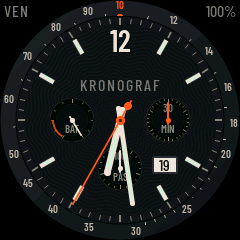
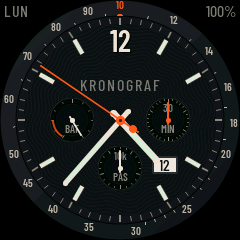
NTP fixed (single status read), no rendering with the screen off, robust serial captures, sleep/wake event log
Claude-Session: https://claude.ai/code/session_01BHBYox5ENEx9Hdd9LiBx8a

diff --git a/tools/kg.py b/tools/kg.py
@@ -26,16 +26,29 @@ def find_port():
 
 
 def open_port(path):
-    # dsrdtr/rtscts désactivés et lignes basses : ouvrir le port ne doit pas redémarrer l'ESP32.
+    # Sur macOS, ouvrir le port fait souvent redémarrer l'ESP32 (circuit d'auto-reset du CP210x).
+    # On écoute 1,5 s : si un démarrage est en cours, on attend « Kronograf prêt ».
     s = serial.Serial()
     s.port = path
     s.baudrate = 115200
-    s.timeout = 2
+    s.timeout = 0.3
     s.dtr = False
     s.rts = False
     s.open()
-    time.sleep(0.2)
+    end = time.time() + 1.5
+    booting = False
+    while time.time() < end:
+        line = s.readline().decode(errors="replace")
+        if "ets " in line or "Kronograf — démarrage" in line:
+            booting = True
+            end = time.time() + 15
+        if "Kronograf prêt" in line:
+            time.sleep(0.5)  # laisse passer les derniers logs de démarrage
+            break
+    if booting:
+        time.sleep(4)  # synchro NTP en cours au démarrage : ses logs Wi-Fi arrivent vers 4 s
     s.reset_input_buffer()
+    s.timeout = 2
     return s
 
 
@@ -73,19 +86,30 @@ def screenshot(s, path):
     if parts[1] == "ERR":
         sys.exit(f"Erreur montre : {line}")
     w, h, swap = int(parts[1]), int(parts[2]), parts[4] == "swap=1"
-    rows = []
+    rows = {}
     s.timeout = 5
     while True:
-        row = s.readline().decode(errors="replace").strip()
-        if row == "KGSHOT END":
+        line = s.readline().decode(errors="replace").strip()
+        if line == "KGSHOT END":
             break
-        if not row:
+        if not line:
             sys.exit(f"Capture interrompue après {len(rows)} rangées")
-        rows.append(base64.b64decode(row))
-    if len(rows) != h or any(len(r) != w * 2 for r in rows):
-        sys.exit(f"Capture incomplète : {len(rows)}/{h} rangées")
-    write_png(path, w, h, rgb565_to_rgb888(b"".join(rows), swap))
+        if not line.startswith("R") or ":" not in line:
+            continue  # ligne de log intercalée
+        idx, _, b64 = line[1:].partition(":")
+        try:
+            data = base64.b64decode(b64, validate=True)
+        except ValueError:
+            continue
+        if idx.isdigit() and len(data) == w * 2:
+            rows[int(idx)] = data
+    missing = [y for y in range(h) if y not in rows]
+    if missing:
+        print(f"capture incomplète : {len(missing)} rangées manquantes (première : {missing[0]})", file=sys.stderr)
+        return False
+    write_png(path, w, h, rgb565_to_rgb888(b"".join(rows[y] for y in range(h)), swap))
     print(f"capture {path} ({w}×{h})")
+    return True
 
 
 def command(s, cmd, wait=1.0):
@@ -106,7 +130,9 @@ def main():
     a = ap.parse_args()
     s = open_port(a.port or find_port())
     if a.cmd == "screenshot":
-        screenshot(s, a.args[0] if a.args else "screenshot.png")
+        # Un log d'une autre tâche peut s'intercaler au milieu d'une rangée : on recommence.
+        if not any(screenshot(s, a.args[0] if a.args else "screenshot.png") for _ in range(3)):
+            sys.exit("Capture impossible après 3 essais")
     else:
         command(s, " ".join([a.cmd] + a.args))
 

diff --git a/src/hal/device/console.cpp b/src/hal/device/console.cpp
@@ -6,7 +6,7 @@
  *   bl <n>      rétroéclairage 8..255
  *   timeout <s> délai d'extinction
  *   diag        affiche l'écran de diagnostic de la Tranche 0
- *   touch       affiche les points touchés pendant 10 s (calibration)
+ *   touch [s]   affiche les points touchés pendant s secondes (10 par défaut)
  *   lcdtest     mire rouge | vert | bleu 5 s, hors LVGL
  *   log <n>     niveau de log ESP (0 = rien … 5 = verbeux)
  *   help
@@ -46,7 +46,10 @@ static void cmd_status(void)
                   (unsigned long)frame_px, (unsigned long)getCpuFrequencyMhz());
     Serial.printf("current batt_discharge=%.1fmA vbus=%.1fmA\n", pmu_discharge_ma(), pmu_vbus_ma());
     Serial.printf("battery=%d%% %dmV charging=%d usb=%d\n", b.percent, b.millivolts, b.charging, b.usb);
-    Serial.printf("screen=%s wake=%s steps=%lu\n", power_screen_on() ? "on" : "off", power_wake_reason(),
+    uint32_t wakes, sleeps;
+    power_counters(&wakes, &sleeps);
+    Serial.printf("screen=%s wake=%s wakes=%lu light_sleeps=%lu steps=%lu\n", power_screen_on() ? "on" : "off",
+                  power_wake_reason(), (unsigned long)wakes, (unsigned long)sleeps,
                   (unsigned long)hal_steps_today());
     struct tm t;
     hal_now(&t, nullptr);
@@ -54,7 +57,7 @@ static void cmd_status(void)
                   t.tm_mday, t.tm_hour, t.tm_min, t.tm_sec, hal_time_valid(), net_status());
 }
 
-/* Format : "KGSHOT <w> <h> rgb565 swap=<0|1>", 1 ligne base64 par rangée, "KGSHOT END". */
+/* Format : "KGSHOT <w> <h> rgb565 swap=<0|1>", puis "R<y>:<base64>" par rangée, "KGSHOT END". */
 static void cmd_screenshot(void)
 {
     lv_obj_t *scr = lv_scr_act();
@@ -76,6 +79,7 @@ static void cmd_screenshot(void)
     for (int y = 0; y < h; y++) {
         size_t olen = 0;
         mbedtls_base64_encode(line, sizeof line, &olen, buf + y * w * 2, w * 2);
+        Serial.printf("R%d:", y); /* index de rangée : les lignes de log intercalées sont ignorées */
         Serial.write(line, olen);
         Serial.write('\n');
     }
@@ -91,8 +95,9 @@ static void run(char *cmd)
     else if (!strcmp(cmd, "wake")) power_force(true);
     else if (!strncmp(cmd, "bl ", 3)) power_set_brightness((uint8_t)atoi(cmd + 3));
     else if (!strncmp(cmd, "timeout ", 8)) power_set_timeout(1000u * atoi(cmd + 8));
-    else if (!strcmp(cmd, "touch")) {
-        uint32_t end = millis() + 10000;
+    else if (!strncmp(cmd, "touch", 5)) {
+        uint32_t secs = cmd[5] == ' ' ? atoi(cmd + 6) : 10;
+        uint32_t end = millis() + 1000 * secs;
         int16_t x, y;
         while (millis() < end) {
             lv_timer_handler(); /* fait tourner la lecture tactile */

diff --git a/src/hal/device/power.cpp b/src/hal/device/power.cpp
@@ -28,6 +28,7 @@ static uint32_t s_timeout_ms = 10000;
 static uint8_t s_brightness = 160;
 static uint32_t s_wake_ms;
 static const char *s_wake_reason = "démarrage";
+static uint32_t s_light_sleeps, s_wakes;
 
 static void IRAM_ATTR on_bma_irq() { s_bma_irq = true; }
 static void IRAM_ATTR on_axp_irq() { s_axp_irq = true; }
@@ -89,6 +90,7 @@ static void screen_off(void)
 {
     if (!s_screen_on) return;
     s_screen_on = false;
+    Serial.println("event sleep");
     for (int b = s_brightness; b > 0; b -= 16) { /* extinction douce, ~80 ms */
         hal_backlight(b);
         delay(8);
@@ -104,6 +106,8 @@ static void screen_on(const char *reason)
     lv_disp_trig_activity(nullptr);
     if (s_screen_on) return;
     s_screen_on = true;
+    s_wakes++;
+    Serial.printf("event wake %s\n", reason);
     setCpuFrequencyMhz(240);
     display_sleep(false);
     steps_midnight_check();
@@ -128,6 +132,7 @@ static const char *light_sleep(void)
     esp_sleep_enable_gpio_wakeup();
     esp_sleep_enable_timer_wakeup(60ULL * 1000 * 1000); /* minuit, VBUS : vérifié chaque minute */
     Serial.flush();
+    s_light_sleeps++;
     esp_light_sleep_start();
     gpio_wakeup_disable((gpio_num_t)PIN_AXP_INT);
     gpio_wakeup_disable((gpio_num_t)PIN_BMA_INT);
@@ -203,4 +208,10 @@ void power_force(bool on)
 {
     if (on) screen_on("console");
     else screen_off();
+}
+
+void power_counters(uint32_t *wakes, uint32_t *light_sleeps)
+{
+    *wakes = s_wakes;
+    *light_sleeps = s_light_sleeps;
 }

diff --git a/src/hal/device/net.cpp b/src/hal/device/net.cpp
@@ -32,9 +32,13 @@ static void sync_task(void *)
         s_status = "synchro NTP";
         configTzTime(KG_TZ, "pool.ntp.org", "time.nrc.ca");
         t0 = millis();
-        while (sntp_get_sync_status() != SNTP_SYNC_STATUS_COMPLETED && millis() - t0 < NTP_TIMEOUT_MS)
-            vTaskDelay(pdMS_TO_TICKS(100));
-        if (sntp_get_sync_status() == SNTP_SYNC_STATUS_COMPLETED) {
+        /* sntp_get_sync_status() remet l'état à zéro quand on le lit : une seule lecture par tour. */
+        bool synced = false;
+        while (!synced && millis() - t0 < NTP_TIMEOUT_MS) {
+            synced = sntp_get_sync_status() == SNTP_SYNC_STATUS_COMPLETED;
+            if (!synced) vTaskDelay(pdMS_TO_TICKS(100));
+        }
+        if (synced) {
             rtc_from_system();
             s_last_sync = time(nullptr);
             s_status = "synchronisé";

diff --git a/src/hal/device/hal_device.h b/src/hal/device/hal_device.h
@@ -39,6 +39,7 @@ const char *power_wake_reason(void);
 void power_set_brightness(uint8_t level);
 void power_set_timeout(uint32_t ms);
 void power_force(bool on);
+void power_counters(uint32_t *wakes, uint32_t *light_sleeps);
 
 /* Réseau : synchro NTP en tâche de fond si secrets.h fournit un Wi-Fi */
 void net_start_time_sync(void);

diff --git a/src/main.cpp b/src/main.cpp
@@ -37,6 +37,10 @@ void loop()
 {
     console_poll();
     power_loop();
+    if (!power_screen_on()) { /* écran éteint : aucun rendu LVGL */
+        vTaskDelay(pdMS_TO_TICKS(50));
+        return;
+    }
     uint32_t wait = lv_timer_handler();
     vTaskDelay(pdMS_TO_TICKS(wait < 5 ? 1 : (wait > 20 ? 20 : wait)));
 }
